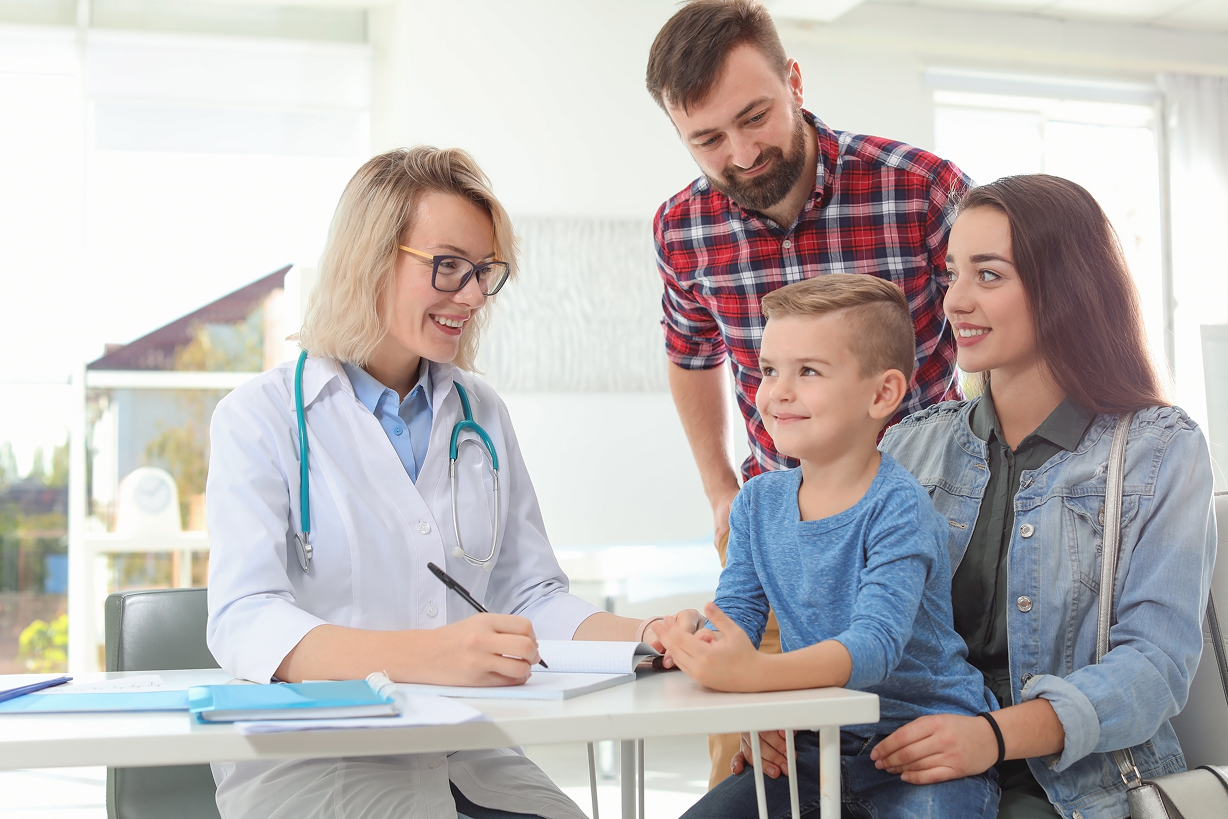
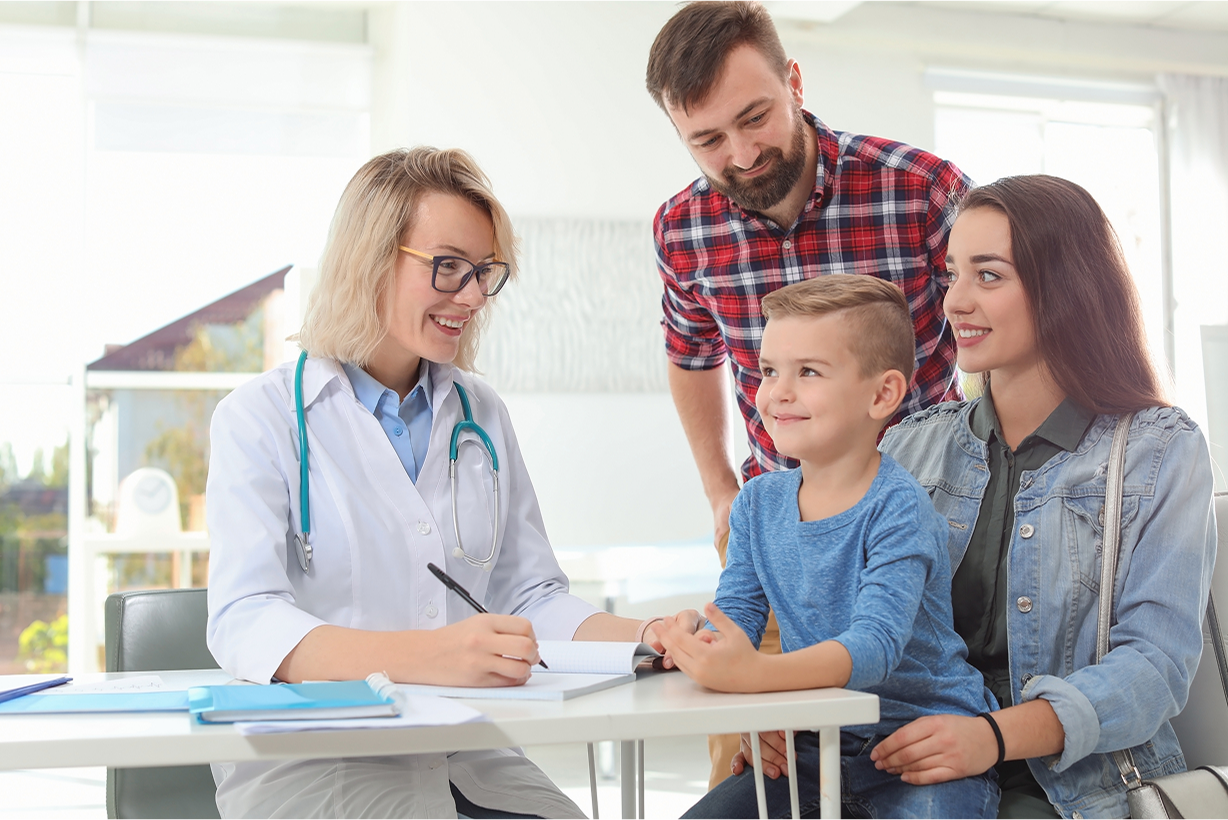
optimalized images

diff --git a/src/pages/Home.tsx b/src/pages/Home.tsx
@@ -33,7 +33,7 @@ const Home: React.FC = () => {
       <div className='container-home home'>
         <div id='home' className={`hero-section`}>
           <div className='background-video-desktop'>
-            <img src='/media/hiker1.jpg' alt='Background' />
+            <img src='/media/hiker1.png' alt='Background' />
           </div>
 
           <div className='overlay'>
@@ -79,7 +79,7 @@ const Home: React.FC = () => {
           }`}
         >
           <ButtonBox
-            icon='/media/image-health.png'
+            icon='/media/image-one.png'
             titleKey='GENERAL.healthInsurance'
             descriptionKey='GENERAL.healthInsuranceDescription'
             link={`/${lang}/health-insurance`}
@@ -111,7 +111,7 @@ const Home: React.FC = () => {
           />
 
           <ButtonBox
-            icon='/media/image-switzerland.jpeg'
+            icon='/media/image-switzerland.png'
             titleKey='GENERAL.swissInsurance'
             descriptionKey='GENERAL.swissInsuranceDescription'
             link={`/${lang}/swiss-insurance`}

diff --git a/src/pages/HealthInsurance.css b/src/pages/HealthInsurance.css
@@ -188,7 +188,7 @@ h5,
   z-index: 10;
 }
 .table-wrapper {
-  background-color: #eee3;
+  background-color: #eee;
   min-width: 120px;
 }
 .table-column {
